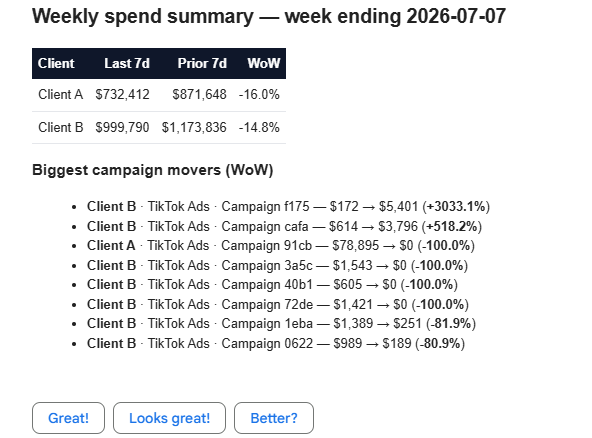
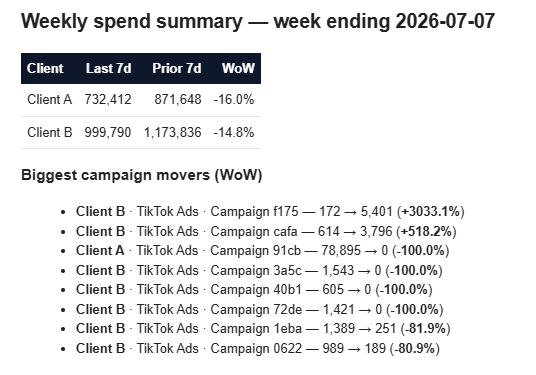
alarms magnet: real screenshots, expanded Step 1 (data sources + BQ destination + GCP), remove Looker step, dual CTA (create account + book demo), drop aov

Changed region(s): [[0.0299, 0.44, 0.8657, 0.9973], [0.0299, 0.0, 0.9254, 0.4107]]

diff --git a/alarms/es/index.html b/alarms/es/index.html
@@ -186,14 +186,13 @@
 <p class="section-subtitle fade-up">Cada mañana, antes de abrir un solo dashboard, la alarma ya está en tu bandeja de entrada y en el canal de tu equipo.</p>
 
 <div class="fade-up">
-  <div class="img-ph">
-    <span class="ph-icon">&#128266;</span>
-    <strong>Captura:alarma diaria en Slack</strong>
-    <span>Gasto por cliente: ayer + DoD, MTD vs presupuesto, y las campañas outlier (las que se mueren y las que se disparan)</span>
+  <div class="screenshot" onclick="openLightbox(this)">
+    <img src="images/alarm-daily-slack.png" alt="Alarma diaria de gasto en Slack">
+    <div class="screenshot-caption">Alarma diaria en Slack: gasto por cliente (ayer + DoD), MTD vs presupuesto (pace) y las campañas outlier (💀 frenada, ⚡ pico)</div>
   </div>
   <div class="img-ph">
     <span class="ph-icon">&#128231;</span>
-    <strong>Captura:mail diario</strong>
+    <strong>Captura: mail diario</strong>
     <span>El mismo resumen como tabla HTML, al que maneja las cuentas</span>
   </div>
   <div class="screenshot" onclick="openLightbox(this)">
@@ -215,30 +214,42 @@
     <h2>Meté la data de tus anuncios en BigQuery <small>con Detrics</small></h2>
   </div>
   <div class="step-body">
-    <p>La alarma lee de tu <strong>propio warehouse en BigQuery</strong>. Detrics es lo que lo llena: conectás las cuentas de cada cliente una vez, apuntás Detrics a BigQuery como destino, y la data entra sola todos los días.</p>
+    <p>La alarma lee de tu <strong>propio warehouse en BigQuery</strong>. Detrics es lo que lo llena: conectás las cuentas de cada cliente, apuntás Detrics a BigQuery como destino, y la data entra sola todos los días.</p>
 
+    <h3>Conectá tus cuentas de anuncios</h3>
     <div class="url-box">
       <div class="url-icon"><svg viewBox="0 0 24 24"><path d="M3.9 12c0-1.71 1.39-3.1 3.1-3.1h4V7H7c-2.76 0-5 2.24-5 5s2.24 5 5 5h4v-1.9H7c-1.71 0-3.1-1.39-3.1-3.1zM8 13h8v-2H8v2zm9-6h-4v1.9h4c1.71 0 3.1 1.39 3.1 3.1s-1.39 3.1-3.1 3.1h-4V17h4c2.76 0 5-2.24 5-5s-2.24-5-5-5z"/></svg></div>
-      <a href="https://app.detrics.io" target="_blank" rel="noopener">app.detrics.io</a>
+      <a href="https://app.detrics.io/datasources" target="_blank" rel="noopener">app.detrics.io/datasources</a>
     </div>
-
     <div class="platform-chips">
       <div class="chip"><img src="https://storage.googleapis.com/detrics-static/public/img/meta-ads-logo.png" alt="Meta Ads"> Meta Ads</div>
       <div class="chip"><img src="https://storage.googleapis.com/detrics-static/public/img/tiktok-logo.png" alt="TikTok Ads"> TikTok Ads</div>
       <div class="chip"><img src="https://storage.googleapis.com/detrics-static/public/img/google-ads-logo.png" alt="Google Ads"> Google Ads</div>
       <div class="chip">&hellip; y cada cuenta de cada cliente</div>
     </div>
+    <div class="screenshot" onclick="openLightbox(this)">
+      <img src="images/detrics-datasources.png" alt="Página de Data Sources de Detrics con las cuentas conectadas">
+      <div class="screenshot-caption">Data Sources en Detrics: las cuentas conectadas de tus clientes</div>
+    </div>
 
-    <ul>
-      <li>Conectá las cuentas de anuncios de cada cliente (Meta, TikTok, Google Ads, &hellip;)</li>
-      <li>Elegí <strong>BigQuery</strong> como destino y autorizá tu proyecto de Google Cloud</li>
-      <li>Detrics crea una tabla por plataforma en tu dataset y las mantiene sincronizadas todos los días</li>
-    </ul>
+    <h3>Creá un destino de BigQuery</h3>
+    <div class="url-box">
+      <div class="url-icon"><svg viewBox="0 0 24 24"><path d="M3.9 12c0-1.71 1.39-3.1 3.1-3.1h4V7H7c-2.76 0-5 2.24-5 5s2.24 5 5 5h4v-1.9H7c-1.71 0-3.1-1.39-3.1-3.1zM8 13h8v-2H8v2zm9-6h-4v1.9h4c1.71 0 3.1 1.39 3.1 3.1s-1.39 3.1-3.1 3.1h-4V17h4c2.76 0 5-2.24 5-5s-2.24-5-5-5z"/></svg></div>
+      <a href="https://app.detrics.io/bigquery/destinations/new" target="_blank" rel="noopener">app.detrics.io/bigquery/destinations/new</a>
+    </div>
+    <p>Apuntá Detrics a tu proyecto de Google Cloud. Escribe una tabla por plataforma en tu dataset y las mantiene sincronizadas todos los días.</p>
+    <div class="screenshot" onclick="openLightbox(this)">
+      <img src="images/detrics-create-destination.png" alt="Asistente Create Destination de Detrics">
+      <div class="screenshot-caption">Create Destination: conectá tu proyecto de Google Cloud como destino de BigQuery</div>
+    </div>
 
-    <div class="img-ph">
-      <span class="ph-icon">&#128247;</span>
-      <strong>Captura:conectá cuentas y elegí BigQuery como destino</strong>
-      <span>setup de data-sources + destino BigQuery en Detrics</span>
+    <div class="tip amber">
+      <span class="tip-icon">&#9733;</span>
+      <span>¿Todavía no tenés un proyecto de Google Cloud? Creá uno primero (es gratis) en <a href="https://console.cloud.google.com/" target="_blank" rel="noopener">console.cloud.google.com</a> y volvé.</span>
+    </div>
+    <div class="screenshot" onclick="openLightbox(this)">
+      <img src="images/gcp-create-project.png" alt="Pasos para crear un proyecto de Google Cloud">
+      <div class="screenshot-caption">Creá un proyecto de Google Cloud: abrí el menú de proyectos, clic en New Project, nombralo y creá</div>
     </div>
 
     <div class="tip green">
@@ -270,30 +281,31 @@
       <span class="cf-text">channel	account_name	client</span>
       <button class="copy-btn-light" onclick="copyText('channel\taccount_name\tclient',this)">Copiar</button>
     </div>
+    <div class="screenshot" onclick="openLightbox(this)">
+      <img src="images/client-map-sheet.png" alt="Ejemplo de la pestaña client_map">
+      <div class="screenshot-caption">Pestaña client_map: cada cuenta de anuncios mapeada a un cliente (un cliente puede abarcar muchas cuentas y canales)</div>
+    </div>
 
     <div class="tab-label">Pestaña 2 &middot; <code>targets</code></div>
     <p style="margin-bottom:8px">Una fila por cliente, con el presupuesto y qué tan sensible querés la alarma:</p>
     <table class="data-table">
-      <tr><th>client</th><th>daily_budget</th><th>monthly_budget</th><th>swing_threshold_pct</th><th>aov</th></tr>
-      <tr><td>Acme</td><td>5000</td><td>150000</td><td>30</td><td></td></tr>
-      <tr><td>Globex</td><td>3000</td><td>90000</td><td>25</td><td></td></tr>
+      <tr><th>client</th><th>daily_budget</th><th>monthly_budget</th><th>swing_threshold_pct</th></tr>
+      <tr><td>Acme</td><td>5000</td><td>150000</td><td>30</td></tr>
+      <tr><td>Globex</td><td>3000</td><td>90000</td><td>25</td></tr>
     </table>
     <div class="copyable-field">
-      <span class="cf-text">client	daily_budget	monthly_budget	swing_threshold_pct	aov</span>
-      <button class="copy-btn-light" onclick="copyText('client\tdaily_budget\tmonthly_budget\tswing_threshold_pct\taov',this)">Copiar</button>
+      <span class="cf-text">client	daily_budget	monthly_budget	swing_threshold_pct</span>
+      <button class="copy-btn-light" onclick="copyText('client\tdaily_budget\tmonthly_budget\tswing_threshold_pct',this)">Copiar</button>
+    </div>
+    <div class="screenshot" onclick="openLightbox(this)">
+      <img src="images/targets-sheet.png" alt="Ejemplo de la pestaña targets">
+      <div class="screenshot-caption">Pestaña targets: presupuesto y sensibilidad por cliente</div>
     </div>
 
     <ul>
       <li><strong>swing_threshold_pct</strong> define qué tan grande tiene que ser el movimiento (%) para disparar una alerta. Ponelo en 30 y se marca todo lo que se mueva 30% o más.</li>
       <li><strong>monthly_budget</strong> maneja el chequeo de ritmo month-to-date: si vas por encima o por debajo del presupuesto del mes.</li>
-      <li><strong>aov</strong> queda vacía por ahora. Es el gancho para prender ROAS más adelante.</li>
     </ul>
-
-    <div class="img-ph">
-      <span class="ph-icon">&#128247;</span>
-      <strong>Captura:el Sheet de mapeo de dos pestañas</strong>
-      <span>pestañas client_map + targets</span>
-    </div>
 
     <div class="tip amber">
       <span class="tip-icon">&#9733;</span>
@@ -330,7 +342,7 @@
 
     <div class="img-ph">
       <span class="ph-icon">&#128247;</span>
-      <strong>Captura:programá la query (diaria)</strong>
+      <strong>Captura: programá la query (diaria)</strong>
       <span>setup de scheduled query en BigQuery</span>
     </div>
 
@@ -356,10 +368,9 @@
       <li>Abrí <strong>Incoming Webhooks</strong> en el menú izquierdo y activalo (<strong>On</strong>).</li>
       <li>Clic en <strong>Add New Webhook to Workspace</strong>, elegí tu canal de alertas y <strong>Allow</strong>.</li>
       <li>Copiá la URL del webhook. Se ve así: <code>https://hooks.slack.com/services/T…/B…/…</code>
-        <div class="img-ph" style="margin-top:12px">
-          <span class="ph-icon">&#128247;</span>
-          <strong>Captura:copiá la URL del webhook</strong>
-          <span>el botón "Copy" al lado de tu webhook nuevo</span>
+        <div class="screenshot" onclick="openLightbox(this)" style="margin-top:12px">
+          <img src="images/slack-webhook-copy.png" alt="Copiá la URL del incoming webhook de Slack">
+          <div class="screenshot-caption">Copiá la URL del webhook desde la página de incoming webhooks</div>
         </div>
       </li>
     </ol>
@@ -403,7 +414,7 @@
 
     <div class="img-ph">
       <span class="ph-icon">&#128247;</span>
-      <strong>Captura:editor de Apps Script, Servicios, Propiedades y Triggers</strong>
+      <strong>Captura: editor de Apps Script, Servicios, Propiedades y Triggers</strong>
       <span>pegá el código + activá BigQuery + cargá propiedades + agregá triggers</span>
     </div>
 
@@ -425,28 +436,12 @@
   </div>
 </div>
 
-<!-- ============ STEP 6 (OPTIONAL) ============ -->
-<div class="step fade-up">
-  <div class="step-header">
-    <div class="opt step-number">6</div>
-    <h2>Visualizá en Looker <small>opcional, sobre la misma tabla</small></h2>
-  </div>
-  <div class="step-body">
-    <p>Como la tabla consolidada ya lleva la columna <code>client</code>, un dashboard es un agregado de cinco minutos: conectá Looker Studio a <code>consolidated_ad_performance</code> y poné un <strong>filtro de cliente</strong>. Misma fuente que la alarma, así los números siempre coinciden.</p>
-    <div class="img-ph">
-      <span class="ph-icon">&#128247;</span>
-      <strong>Captura:dashboard de Looker con filtro de cliente</strong>
-      <span>tendencias de gasto por cliente sobre la tabla consolidada</span>
-    </div>
-  </div>
-</div>
-
 <!-- ============ FLOW ============ -->
 <div class="divider"></div>
 <h2 class="section-title fade-up">El flujo completo</h2>
 <br>
 <div class="flow fade-up">
-  <div class="flow-node"><div class="flow-icon"><img src="https://storage.googleapis.com/detrics-static/public/img/meta-ads-logo.png" alt="Plataformas de anuncios"></div><span class="flow-label">Cuentas de anuncios</span></div>
+  <div class="flow-node"><div class="flow-icon" style="width:auto; padding:0 12px; gap:8px;"><img src="https://storage.googleapis.com/detrics-static/public/img/google-ads-logo.png" alt="Google Ads" style="width:24px;height:24px;"><img src="https://storage.googleapis.com/detrics-static/public/img/tiktok-logo.png" alt="TikTok Ads" style="width:24px;height:24px;"><img src="https://storage.googleapis.com/detrics-static/public/img/meta-ads-logo.png" alt="Meta Ads" style="width:24px;height:24px;"></div><span class="flow-label">Cuentas de anuncios</span></div>
   <span class="flow-arrow">&rarr;</span>
   <div class="flow-node"><div class="flow-icon" style="border-color: var(--blue); background: #EFF6FF;"><img src="https://detrics.io/_astro/detrics-logo.C-sT4k0h_ZovnhR.svg" alt="Detrics" style="width: 40px; height: 32px;"></div><span class="flow-label">Detrics</span></div>
   <span class="flow-arrow">&rarr;</span>
@@ -459,10 +454,15 @@
 <div class="cta-section fade-up">
   <h2>De reactivo a proactivo</h2>
   <p>Detrics llena el warehouse. Vos te quedás con el cliente. Empezá gratis.</p>
-  <a href="https://detrics.io/get-started" target="_blank" rel="noopener" class="cta-button">
-    Creá tu cuenta gratis
-    <svg viewBox="0 0 24 24"><path d="M5 12h14M12 5l7 7-7 7"/></svg>
-  </a>
+  <div style="display:flex; gap:14px; justify-content:center; flex-wrap:wrap;">
+    <a href="https://app.detrics.io/bigquery/destinations/new" target="_blank" rel="noopener" class="cta-button">
+      Creá tu cuenta gratis
+      <svg viewBox="0 0 24 24"><path d="M5 12h14M12 5l7 7-7 7"/></svg>
+    </a>
+    <a href="https://calendly.com/ignacio-goyanes-detrics/" target="_blank" rel="noopener" class="cta-button" style="background:transparent; color:var(--blue); border:1.5px solid var(--blue); box-shadow:none;">
+      Agendá una demo
+    </a>
+  </div>
 </div>
 
 </div><!-- /container -->

diff --git a/alarms/index.html b/alarms/index.html
@@ -188,14 +188,13 @@
 <p class="section-subtitle fade-up">Every morning, before you open a single dashboard, the alarm is already in your inbox and your team channel.</p>
 
 <div class="fade-up">
-  <div class="img-ph">
-    <span class="ph-icon">&#128266;</span>
-    <strong>Screenshot:daily Slack alarm</strong>
-    <span>Per-client spend: yesterday + DoD, MTD vs budget pace, and the campaign outliers (dying &amp; runaway)</span>
+  <div class="screenshot" onclick="openLightbox(this)">
+    <img src="images/alarm-daily-slack.png" alt="Daily spend alarm posted to Slack">
+    <div class="screenshot-caption">Daily alarm in Slack: per-client spend (yesterday + DoD), MTD vs budget pace, and the campaign outliers (💀 stopped, ⚡ spike)</div>
   </div>
   <div class="img-ph">
     <span class="ph-icon">&#128231;</span>
-    <strong>Screenshot:daily email</strong>
+    <strong>Screenshot: daily email</strong>
     <span>The same digest as a clean HTML table, delivered to whoever owns the accounts</span>
   </div>
   <div class="screenshot" onclick="openLightbox(this)">
@@ -217,30 +216,42 @@
     <h2>Get your ad data into BigQuery <small>with Detrics</small></h2>
   </div>
   <div class="step-body">
-    <p>The alarm reads from your <strong>own BigQuery warehouse</strong>. Detrics is what fills it: connect each client's ad accounts once, point Detrics at BigQuery as the destination, and it syncs the data in every day, automatically.</p>
+    <p>The alarm reads from your <strong>own BigQuery warehouse</strong>. Detrics is what fills it: connect each client's ad accounts, point Detrics at BigQuery as the destination, and it syncs the data in every day, automatically.</p>
 
+    <h3>Connect your ad accounts</h3>
     <div class="url-box">
       <div class="url-icon"><svg viewBox="0 0 24 24"><path d="M3.9 12c0-1.71 1.39-3.1 3.1-3.1h4V7H7c-2.76 0-5 2.24-5 5s2.24 5 5 5h4v-1.9H7c-1.71 0-3.1-1.39-3.1-3.1zM8 13h8v-2H8v2zm9-6h-4v1.9h4c1.71 0 3.1 1.39 3.1 3.1s-1.39 3.1-3.1 3.1h-4V17h4c2.76 0 5-2.24 5-5s-2.24-5-5-5z"/></svg></div>
-      <a href="https://app.detrics.io" target="_blank" rel="noopener">app.detrics.io</a>
+      <a href="https://app.detrics.io/datasources" target="_blank" rel="noopener">app.detrics.io/datasources</a>
     </div>
-
     <div class="platform-chips">
       <div class="chip"><img src="https://storage.googleapis.com/detrics-static/public/img/meta-ads-logo.png" alt="Meta Ads"> Meta Ads</div>
       <div class="chip"><img src="https://storage.googleapis.com/detrics-static/public/img/tiktok-logo.png" alt="TikTok Ads"> TikTok Ads</div>
       <div class="chip"><img src="https://storage.googleapis.com/detrics-static/public/img/google-ads-logo.png" alt="Google Ads"> Google Ads</div>
       <div class="chip">&hellip; and every other client account</div>
     </div>
+    <div class="screenshot" onclick="openLightbox(this)">
+      <img src="images/detrics-datasources.png" alt="Detrics Data Sources page with connected ad accounts">
+      <div class="screenshot-caption">Detrics Data Sources: your connected client accounts</div>
+    </div>
 
-    <ul>
-      <li>Connect each client's ad accounts (Meta, TikTok, Google Ads, &hellip;)</li>
-      <li>Choose <strong>BigQuery</strong> as the destination and authorize your Google Cloud project</li>
-      <li>Detrics creates one table per platform in your dataset and keeps them synced daily</li>
-    </ul>
+    <h3>Create a BigQuery destination</h3>
+    <div class="url-box">
+      <div class="url-icon"><svg viewBox="0 0 24 24"><path d="M3.9 12c0-1.71 1.39-3.1 3.1-3.1h4V7H7c-2.76 0-5 2.24-5 5s2.24 5 5 5h4v-1.9H7c-1.71 0-3.1-1.39-3.1-3.1zM8 13h8v-2H8v2zm9-6h-4v1.9h4c1.71 0 3.1 1.39 3.1 3.1s-1.39 3.1-3.1 3.1h-4V17h4c2.76 0 5-2.24 5-5s-2.24-5-5-5z"/></svg></div>
+      <a href="https://app.detrics.io/bigquery/destinations/new" target="_blank" rel="noopener">app.detrics.io/bigquery/destinations/new</a>
+    </div>
+    <p>Point Detrics at your Google Cloud project. It writes one table per platform into your dataset and keeps them synced daily.</p>
+    <div class="screenshot" onclick="openLightbox(this)">
+      <img src="images/detrics-create-destination.png" alt="Detrics Create Destination wizard">
+      <div class="screenshot-caption">Create Destination: connect your Google Cloud project as the BigQuery destination</div>
+    </div>
 
-    <div class="img-ph">
-      <span class="ph-icon">&#128247;</span>
-      <strong>Screenshot:connect accounts &amp; pick BigQuery as destination</strong>
-      <span>Detrics data-sources + BigQuery destination setup</span>
+    <div class="tip amber">
+      <span class="tip-icon">&#9733;</span>
+      <span>No Google Cloud project yet? Create one first (it's free) at <a href="https://console.cloud.google.com/" target="_blank" rel="noopener">console.cloud.google.com</a>, then come back.</span>
+    </div>
+    <div class="screenshot" onclick="openLightbox(this)">
+      <img src="images/gcp-create-project.png" alt="Steps to create a Google Cloud project">
+      <div class="screenshot-caption">Create a Google Cloud project: open the project dropdown, click New Project, name it, and create it</div>
     </div>
 
     <div class="tip green">
@@ -272,30 +283,31 @@
       <span class="cf-text">channel	account_name	client</span>
       <button class="copy-btn-light" onclick="copyText('channel\taccount_name\tclient',this)">Copy</button>
     </div>
+    <div class="screenshot" onclick="openLightbox(this)">
+      <img src="images/client-map-sheet.png" alt="client_map tab example">
+      <div class="screenshot-caption">client_map tab: each ad account mapped to a client (one client can span many accounts and channels)</div>
+    </div>
 
     <div class="tab-label">Tab 2 &middot; <code>targets</code></div>
     <p style="margin-bottom:8px">One row per client, with the budget and how sensitive the alarm should be:</p>
     <table class="data-table">
-      <tr><th>client</th><th>daily_budget</th><th>monthly_budget</th><th>swing_threshold_pct</th><th>aov</th></tr>
-      <tr><td>Acme</td><td>5000</td><td>150000</td><td>30</td><td></td></tr>
-      <tr><td>Globex</td><td>3000</td><td>90000</td><td>25</td><td></td></tr>
+      <tr><th>client</th><th>daily_budget</th><th>monthly_budget</th><th>swing_threshold_pct</th></tr>
+      <tr><td>Acme</td><td>5000</td><td>150000</td><td>30</td></tr>
+      <tr><td>Globex</td><td>3000</td><td>90000</td><td>25</td></tr>
     </table>
     <div class="copyable-field">
-      <span class="cf-text">client	daily_budget	monthly_budget	swing_threshold_pct	aov</span>
-      <button class="copy-btn-light" onclick="copyText('client\tdaily_budget\tmonthly_budget\tswing_threshold_pct\taov',this)">Copy</button>
+      <span class="cf-text">client	daily_budget	monthly_budget	swing_threshold_pct</span>
+      <button class="copy-btn-light" onclick="copyText('client\tdaily_budget\tmonthly_budget\tswing_threshold_pct',this)">Copy</button>
+    </div>
+    <div class="screenshot" onclick="openLightbox(this)">
+      <img src="images/targets-sheet.png" alt="targets tab example">
+      <div class="screenshot-caption">targets tab: budget and sensitivity per client</div>
     </div>
 
     <ul>
       <li><strong>swing_threshold_pct</strong> sets how big a move (%) triggers an alert. Set it to 30 and anything that moves 30% or more gets flagged.</li>
       <li><strong>monthly_budget</strong> drives the month-to-date pace check: whether you're over or under budget for the month so far.</li>
-      <li><strong>aov</strong> stays blank for now. It's the hook to switch on ROAS later.</li>
     </ul>
-
-    <div class="img-ph">
-      <span class="ph-icon">&#128247;</span>
-      <strong>Screenshot:the two-tab mapping Sheet</strong>
-      <span>client_map + targets tabs</span>
-    </div>
 
     <div class="tip amber">
       <span class="tip-icon">&#9733;</span>
@@ -332,7 +344,7 @@
 
     <div class="img-ph">
       <span class="ph-icon">&#128247;</span>
-      <strong>Screenshot:schedule the query (daily)</strong>
+      <strong>Screenshot: schedule the query (daily)</strong>
       <span>BigQuery scheduled-query setup</span>
     </div>
 
@@ -358,10 +370,9 @@
       <li>Open <strong>Incoming Webhooks</strong> in the left menu and toggle it <strong>On</strong>.</li>
       <li>Click <strong>Add New Webhook to Workspace</strong>, choose your alerts channel, and <strong>Allow</strong>.</li>
       <li>Copy the webhook URL. It looks like <code>https://hooks.slack.com/services/T…/B…/…</code>
-        <div class="img-ph" style="margin-top:12px">
-          <span class="ph-icon">&#128247;</span>
-          <strong>Screenshot:copy the webhook URL</strong>
-          <span>the "Copy" button next to your new webhook</span>
+        <div class="screenshot" onclick="openLightbox(this)" style="margin-top:12px">
+          <img src="images/slack-webhook-copy.png" alt="Copy the Slack incoming webhook URL">
+          <div class="screenshot-caption">Copy the webhook URL from the incoming-webhooks page</div>
         </div>
       </li>
     </ol>
@@ -405,7 +416,7 @@
 
     <div class="img-ph">
       <span class="ph-icon">&#128247;</span>
-      <strong>Screenshot:Apps Script editor, Services, Script Properties &amp; Triggers</strong>
+      <strong>Screenshot: Apps Script editor, Services, Script Properties &amp; Triggers</strong>
       <span>paste code + enable BigQuery + set properties + add triggers</span>
     </div>
 
@@ -427,28 +438,12 @@
   </div>
 </div>
 
-<!-- ============ STEP 6 (OPTIONAL) ============ -->
-<div class="step fade-up">
-  <div class="step-header">
-    <div class="opt step-number">6</div>
-    <h2>Visualize in Looker <small>optional, on the same table</small></h2>
-  </div>
-  <div class="step-body">
-    <p>Because the consolidated table already carries the <code>client</code> column, a dashboard is a five-minute add: connect Looker Studio to <code>consolidated_ad_performance</code> and drop a <strong>client filter</strong>. Same source as the alarm, so the numbers always agree.</p>
-    <div class="img-ph">
-      <span class="ph-icon">&#128247;</span>
-      <strong>Screenshot:Looker dashboard with a client filter</strong>
-      <span>spend trends per client on the consolidated table</span>
-    </div>
-  </div>
-</div>
-
 <!-- ============ FLOW ============ -->
 <div class="divider"></div>
 <h2 class="section-title fade-up">The complete flow</h2>
 <br>
 <div class="flow fade-up">
-  <div class="flow-node"><div class="flow-icon"><img src="https://storage.googleapis.com/detrics-static/public/img/meta-ads-logo.png" alt="Ad platforms"></div><span class="flow-label">Ad accounts</span></div>
+  <div class="flow-node"><div class="flow-icon" style="width:auto; padding:0 12px; gap:8px;"><img src="https://storage.googleapis.com/detrics-static/public/img/google-ads-logo.png" alt="Google Ads" style="width:24px;height:24px;"><img src="https://storage.googleapis.com/detrics-static/public/img/tiktok-logo.png" alt="TikTok Ads" style="width:24px;height:24px;"><img src="https://storage.googleapis.com/detrics-static/public/img/meta-ads-logo.png" alt="Meta Ads" style="width:24px;height:24px;"></div><span class="flow-label">Ad accounts</span></div>
   <span class="flow-arrow">&rarr;</span>
   <div class="flow-node"><div class="flow-icon" style="border-color: var(--blue); background: #EFF6FF;"><img src="https://detrics.io/_astro/detrics-logo.C-sT4k0h_ZovnhR.svg" alt="Detrics" style="width: 40px; height: 32px;"></div><span class="flow-label">Detrics</span></div>
   <span class="flow-arrow">&rarr;</span>
@@ -461,10 +456,15 @@
 <div class="cta-section fade-up">
   <h2>From reactive to proactive</h2>
   <p>Detrics fills the warehouse. You keep the client. Start free.</p>
-  <a href="https://detrics.io/get-started" target="_blank" rel="noopener" class="cta-button">
-    Create free account
-    <svg viewBox="0 0 24 24"><path d="M5 12h14M12 5l7 7-7 7"/></svg>
-  </a>
+  <div style="display:flex; gap:14px; justify-content:center; flex-wrap:wrap;">
+    <a href="https://app.detrics.io/bigquery/destinations/new" target="_blank" rel="noopener" class="cta-button">
+      Create free account
+      <svg viewBox="0 0 24 24"><path d="M5 12h14M12 5l7 7-7 7"/></svg>
+    </a>
+    <a href="https://calendly.com/ignacio-goyanes-detrics/" target="_blank" rel="noopener" class="cta-button" style="background:transparent; color:var(--blue); border:1.5px solid var(--blue); box-shadow:none;">
+      Book a demo
+    </a>
+  </div>
 </div>
 
 </div><!-- /container -->
